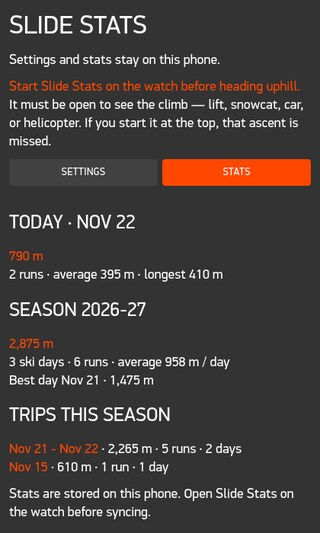
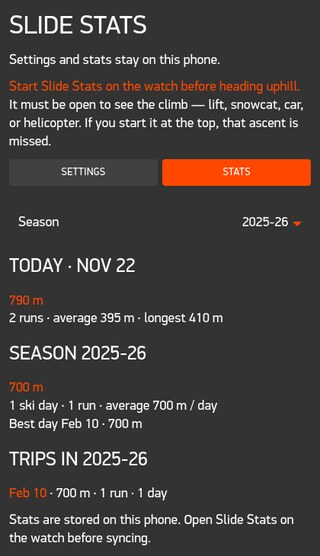
Add a season picker to the Clay Stats tab
Build summaries for every stored season plus the current one and render a
Season dropdown at the top of the Stats tab. Selecting a season switches the
visible summary and its trips; Today stays current. The custom tabs function
now understands season:<key> groups as well as settings/stats.

Add a past-season fixture and test, and update the screenshots and docs.

diff --git a/src/pkjs/lib/clay-config.js b/src/pkjs/lib/clay-config.js
@@ -1,6 +1,6 @@
 /*
  * Builds the Clay configuration page. Settings come first; the read-only
- * stats below cover today, the current season, and this season's trips.
+ * stats below cover today, a selected season, and that season's trips.
  */
 
 const stats = require("./stats");
@@ -62,6 +62,21 @@ function tripsText(trips, units) {
 	).join("<br>");
 }
 
+function seasonSummaries(lifts, settings, now) {
+	const data = lifts || {};
+	const days = stats.aggregateLifts(data);
+	return stats.seasonKeysFor(data, settings, now).map(key => {
+		const season = stats.seasonSummary(data, settings, key, now);
+		const keys = Object.keys(days)
+			.filter(day => stats.seasonKey(day, settings) === key)
+			.sort();
+		return Object.assign({}, season, {
+			daysCount: season.days,
+			trips: stats.groupTrips(keys, days, 2),
+		});
+	});
+}
+
 function tagGroup(items, group) {
 	for (const item of items) {
 		if (item.type === "section")
@@ -72,13 +87,14 @@ function tagGroup(items, group) {
 	return items;
 }
 
-function buildConfig(summary, settings) {
+function buildConfig(summary, settings, lifts) {
 	const flat = flattenSettings(settings);
 	const units = flat.units;
 	const today = summary.today || {};
-	const season = summary.season || {};
+	const generatedAt = summary.generatedAt ? new Date(summary.generatedAt) : new Date();
+	const seasons = seasonSummaries(lifts, settings, generatedAt);
+	const currentKey = (summary.season && summary.season.key) || (seasons[0] && seasons[0].key) || "";
 	const todayLabel = today.date ? "Today · " + stats.formatDateShort(today.date) : "Today";
-	const seasonLabel = season.label ? "Season " + season.label : "Season";
 
 	const settingsItems = tagGroup([
 		{ type: "section", items: [
@@ -201,24 +217,46 @@ function buildConfig(summary, settings) {
 		{ type: "submit", defaultValue: "Save Settings" },
 	], "settings");
 
-	const statsItems = tagGroup([
+	const pickerOptions = seasons.map(season => ({
+		label: season.key === currentKey ? season.label + " (current)" : season.label,
+		value: season.key,
+	}));
+	const statsCommon = tagGroup([
+		{
+			type: "select",
+			id: "season-picker",
+			label: "Season",
+			defaultValue: currentKey,
+			options: pickerOptions,
+		},
 		{ type: "heading", defaultValue: todayLabel, size: 3 },
 		{ type: "text", defaultValue: todayText(today, units) },
-		{ type: "heading", defaultValue: seasonLabel, size: 3 },
-		{ type: "text", defaultValue: seasonText(season, units) },
 	], "stats");
 
-	if (flat.trips) {
-		statsItems.push(
-			{ type: "heading", defaultValue: "Trips this season", size: 3 },
-			{ type: "text", defaultValue: tripsText(season.trips, units) }
-		);
+	const statsSeasons = [];
+	for (const season of seasons) {
+		const group = "season:" + season.key;
+		statsSeasons.push(...tagGroup([
+			{ type: "heading", defaultValue: "Season " + season.label, size: 3 },
+			{ type: "text", defaultValue: seasonText(season, units) },
+		], group));
+		if (flat.trips) {
+			statsSeasons.push(...tagGroup([
+				{
+					type: "heading",
+					defaultValue: season.key === currentKey ? "Trips this season" : "Trips in " + season.label,
+					size: 3,
+				},
+				{ type: "text", defaultValue: tripsText(season.trips, units) },
+			], group));
+		}
 	}
 
-	statsItems.push(
-		{ type: "text", defaultValue: "Stats are stored on this phone. Open Slide Stats on the watch before syncing." }
-	);
-	tagGroup(statsItems, "stats");
+	const statsFooter = tagGroup([
+		{ type: "text", defaultValue: "Stats are stored on this phone. Open Slide Stats on the watch before syncing." },
+	], "stats");
+	const statsItems = [...statsCommon, ...statsSeasons, ...statsFooter];
+
 
 	return [
 		{ type: "heading", defaultValue: "Slide Stats", size: 1 },

diff --git a/src/pkjs/lib/clay-tabs.js b/src/pkjs/lib/clay-tabs.js
@@ -103,13 +103,26 @@ function clayTabsCustomFn() {
 		}
 	}
 
-	function showTab(name) {
+	function applyVisibility() {
+		var tabs = clayConfig.getItemById("page-tabs");
+		var tab = tabs ? tabs.get() : "settings";
+		var picker = clayConfig.getItemById("season-picker");
+		var season = picker ? picker.get() : "";
 		var items = clayConfig.getAllItems();
 		for (var i = 0; i < items.length; i++) {
 			var group = items[i].config.group;
 			if (!group)
 				continue;
-			if (group === name)
+			var visible;
+			if (group === "settings")
+				visible = tab === "settings";
+			else if (group === "stats")
+				visible = tab === "stats";
+			else if (group.indexOf("season:") === 0)
+				visible = tab === "stats" && group === "season:" + season;
+			else
+				visible = true;
+			if (visible)
 				items[i].show();
 			else
 				items[i].hide();
@@ -119,13 +132,20 @@ function clayTabsCustomFn() {
 
 	clayConfig.on(clayConfig.EVENTS.AFTER_BUILD, function () {
 		var tabs = clayConfig.getItemById("page-tabs");
-		if (!tabs)
-			return;
-		showTab(tabs.get());
-		tabs.on("change", function () {
-			showTab(tabs.get());
-			window.scrollTo(0, 0);
-		});
+		var picker = clayConfig.getItemById("season-picker");
+		applyVisibility();
+		if (tabs) {
+			tabs.on("change", function () {
+				applyVisibility();
+				window.scrollTo(0, 0);
+			});
+		}
+		if (picker) {
+			picker.on("change", function () {
+				applyVisibility();
+				window.scrollTo(0, 0);
+			});
+		}
 	});
 }
 

diff --git a/src/pkjs/index.js b/src/pkjs/index.js
@@ -18,7 +18,7 @@ const SETTINGS_KEY = "ss.settings";
 // Clay registers the components used by the initial config, so give it the
 // full page shape up front. showConfiguration replaces this with current data.
 const clay = new Clay(
-	buildConfig(stats.summarize({}, DEFAULT_SETTINGS, new Date()), DEFAULT_SETTINGS),
+	buildConfig(stats.summarize({}, DEFAULT_SETTINGS, new Date()), DEFAULT_SETTINGS, {}),
 	clayTabsCustomFn,
 	{ autoHandleEvents: false }
 );
@@ -199,8 +199,9 @@ Pebble.addEventListener("appmessage", function (event) {
 
 Pebble.addEventListener("showConfiguration", function () {
 	const settings = loadSettings() || DEFAULT_SETTINGS;
-	const summary = stats.summarize(loadLifts(), settings, new Date());
-	clay.config = buildConfig(summary, settings);
+	const lifts = loadLifts();
+	const summary = stats.summarize(lifts, settings, new Date());
+	clay.config = buildConfig(summary, settings, lifts);
 	clay.setSettings(flattenSettings(settings));
 	ensureClayMeta();
 	Pebble.openURL(clay.generateUrl());

diff --git a/docs/design.md b/docs/design.md
@@ -68,9 +68,10 @@ still needs a decision.
   `0xRRGGBB` numbers.
 - **Phone page:** a Clay configuration page with **Settings** and **Stats** tabs.
   Settings is the default and holds units, vibration, trips, hemisphere, theme,
-  lift-detection thresholds, and the Save button. Stats cover today, the current season,
-  and this season's trips. No tables, charts, or export in v1. Detection thresholds are
-  edited in metric units; the units setting changes the stats. A top-of-page reminder
+  lift-detection thresholds, and the Save button. Stats cover today and a selected season
+  (current or past), plus that season's trips. A Season dropdown at the top of the Stats
+  tab lists every stored season. No tables, charts, or export in v1. Detection thresholds
+  are edited in metric units; the units setting changes the stats. A top-of-page reminder
   tells people to start the watch app before heading uphill; starting at the top loses the
   ascent.
 - **Settings split:** quick items on the watch (pause, end day, undo last lift, units,
@@ -163,7 +164,7 @@ Centred vertical stack, no decoration, with the native action bar on the right:
 - Detection, season maths, persistence, and formatting live in one pure watch module,
   `src/embeddedjs/lib/core.js`; phone-side aggregation lives in `src/pkjs/lib/stats.js`.
   Together with the PKJS sync/query handler, Clay config/settings mapping, lift-resume,
-  and coordinate tests, they have 66 Node tests.
+  and coordinate tests, they have 67 Node tests.
 - Fixtures: slow chair, fast gondola, bunny lift, magic carpet, mid-lift stop, vehicle climb,
   noisy GPS, missing altitude, long sample gap, day rollover, lift coordinates.
 - The emulator's fake GPS has no altitude, so the old debug mock was removed to keep the
@@ -199,9 +200,9 @@ Centred vertical stack, no decoration, with the native action bar on the right:
   the response, maps it back into the nested settings object, and sends `Settings`. The
   active watch info is populated so Clay chooses the 64-colour picker.
 - The Settings/Stats tabs use a small custom Clay `tabs` component and a custom function.
-  Items are tagged `group: "settings"` or `"stats"`; the function shows/hides groups and
-  collapses empty sections. The tabs bar is sticky; Settings is the default and holds the
-  Save button.
+  Items are tagged `group: "settings"`, `"stats"`, or `"season:<key>"`; the function
+  shows/hides groups, applies the `season-picker` selection, and collapses empty
+  sections. The tabs bar is sticky; Settings is the default and holds the Save button.
 - The page closes with `pebblejs://close#` on a phone; the emulator needs the usual
   config-page helper to open Clay's pypkjs URL.
 - The menu and detail screens scale from the watch's Text Size preference. A tiny FFI shim
@@ -222,7 +223,7 @@ Centred vertical stack, no decoration, with the native action bar on the right:
 ## Implementation status
 
 - [x] Alloy project scaffolded for emery + gabbro
-- [x] Watch core and phone stats with 66 Node tests
+- [x] Watch core and phone stats with 67 Node tests
 - [x] Poco screens, native action bar, native-style More menu, and icon-only status
 - [x] Text Size/ContentSize FFI for the menu and detail fonts
 - [x] Two-peak mountain app icon (launcher + store sizes)

diff --git a/README.md b/README.md
@@ -42,8 +42,8 @@ A working first version:
   second watch cannot double-count
 - Lift bottom and top GPS coordinates synced to the phone for future mapping; the watch's
   local day records stay coordinate-free
-- Clay configuration page with Settings and Stats tabs; native Pebble controls and the
-  64-colour theme picker
+- Clay configuration page with Settings and Stats tabs; the Stats tab has a season picker
+  for current and past seasons
 - Three-colour theme from the phone settings: background, accent for the right-hand bar,
   and text/font colour
 - Metric by default
@@ -111,15 +111,16 @@ cap); 80×80 and 144×144 store copies are in `store/`. All are generated by
 Settings tab:
 ![Slide Stats Clay settings tab](docs/images/config-page.jpg)
 
-Stats tab:
-![Slide Stats Clay stats tab](docs/images/config-stats.jpg)
+Stats tab (past season selected):
+![Slide Stats Clay stats tab with a past season](docs/images/config-stats.jpg)
 
 The phone page is built with [Clay](https://github.com/pebble-dev/clay) and generated
 locally by PebbleKit JS, so it works offline. A sticky **Settings / Stats** tab bar
 switches between the settings form and the read-only summaries. Settings is the default
 tab and holds units, vibration, trips, hemisphere, the 64-colour theme picker, the
-lift-detection thresholds, and the Save button. Stats cover today, the current season,
-and this season's trips. There are no tables or charts. A reminder at the top says to
+lift-detection thresholds, and the Save button. Stats cover today and a selected season
+(current or past), plus that season's trips. A Season dropdown at the top of the Stats
+tab chooses the season. There are no tables or charts. A reminder at the top says to
 start the watch app before heading uphill.
 
 ## Build
@@ -148,7 +149,7 @@ then Select again.
 The detector, season keys, day store, and formatting live in
 `src/embeddedjs/lib/core.js`; phone-side aggregation, trip maths, and summaries are in
 `src/pkjs/lib/stats.js`.
-There are 66 tests, including the phone sync/query handlers, Clay config and settings mapping, lift-resume, and coordinate cases.
+There are 67 tests, including the phone sync/query handlers, Clay config and settings mapping, lift-resume, and coordinate cases.
 Run them with Node 22 or newer:
 
 ```sh
